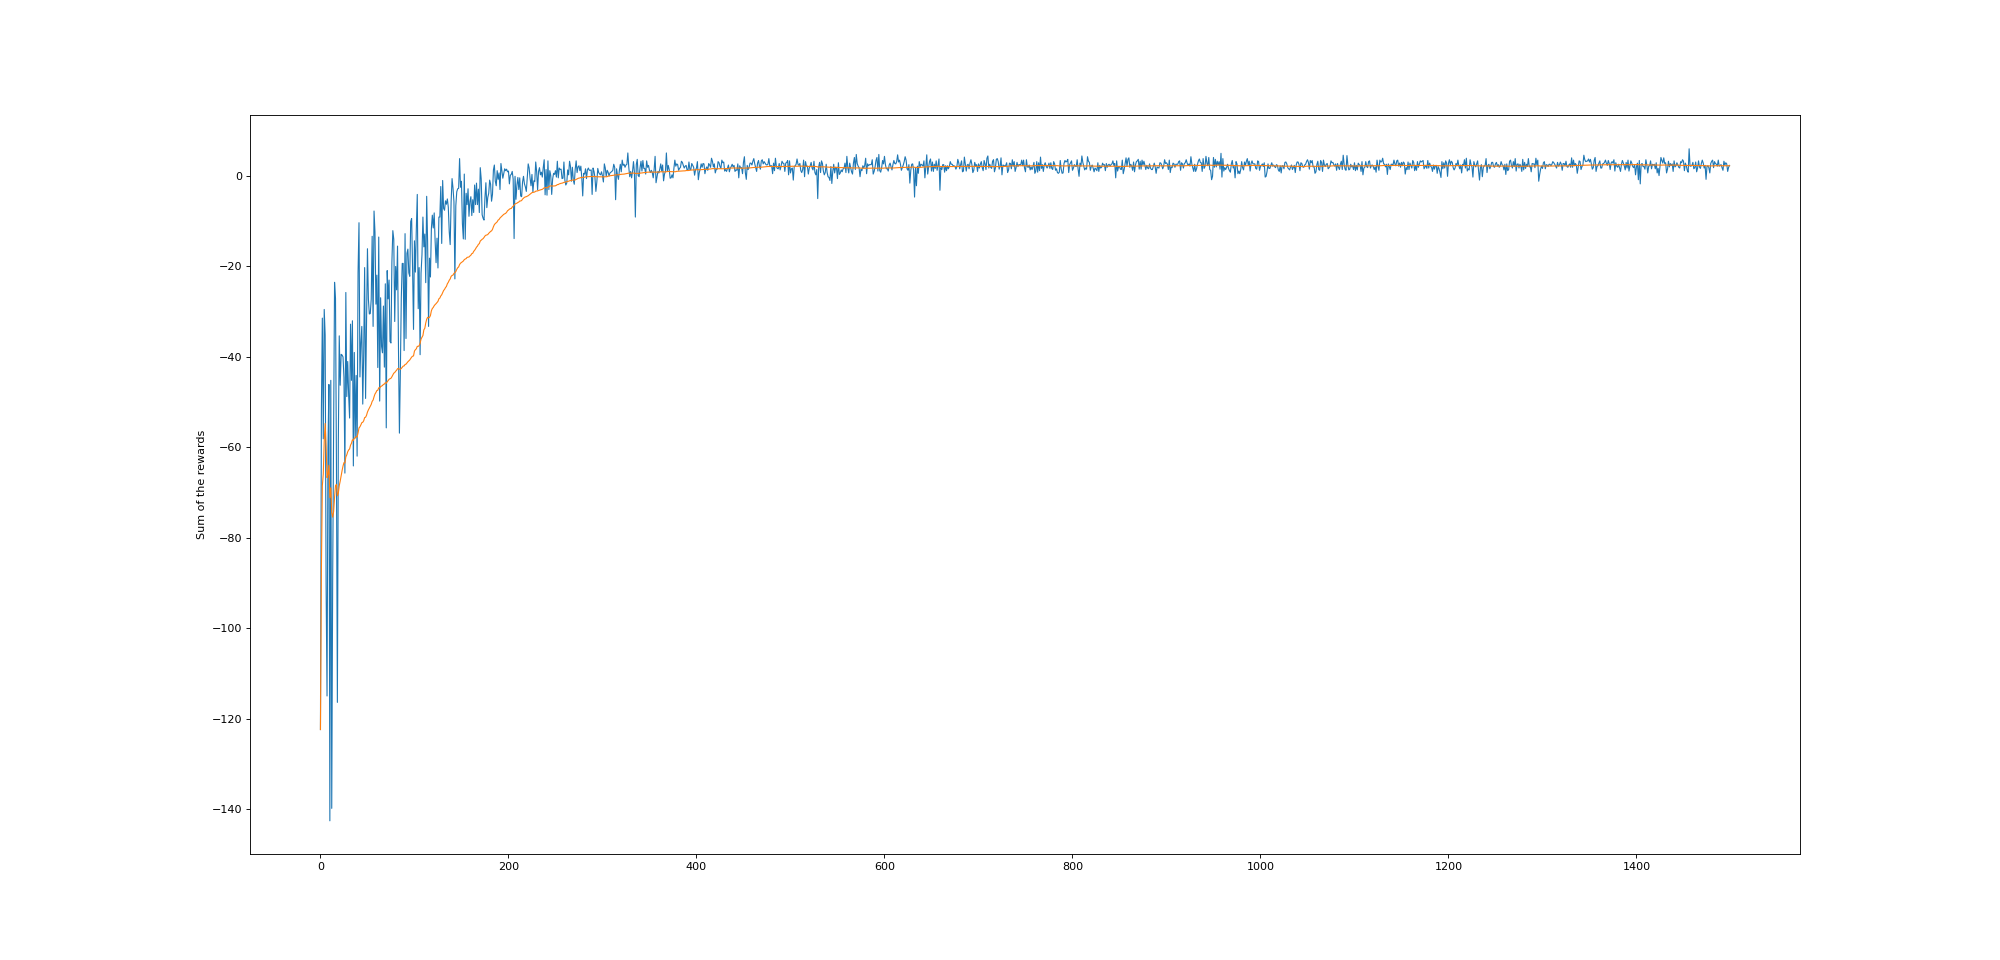
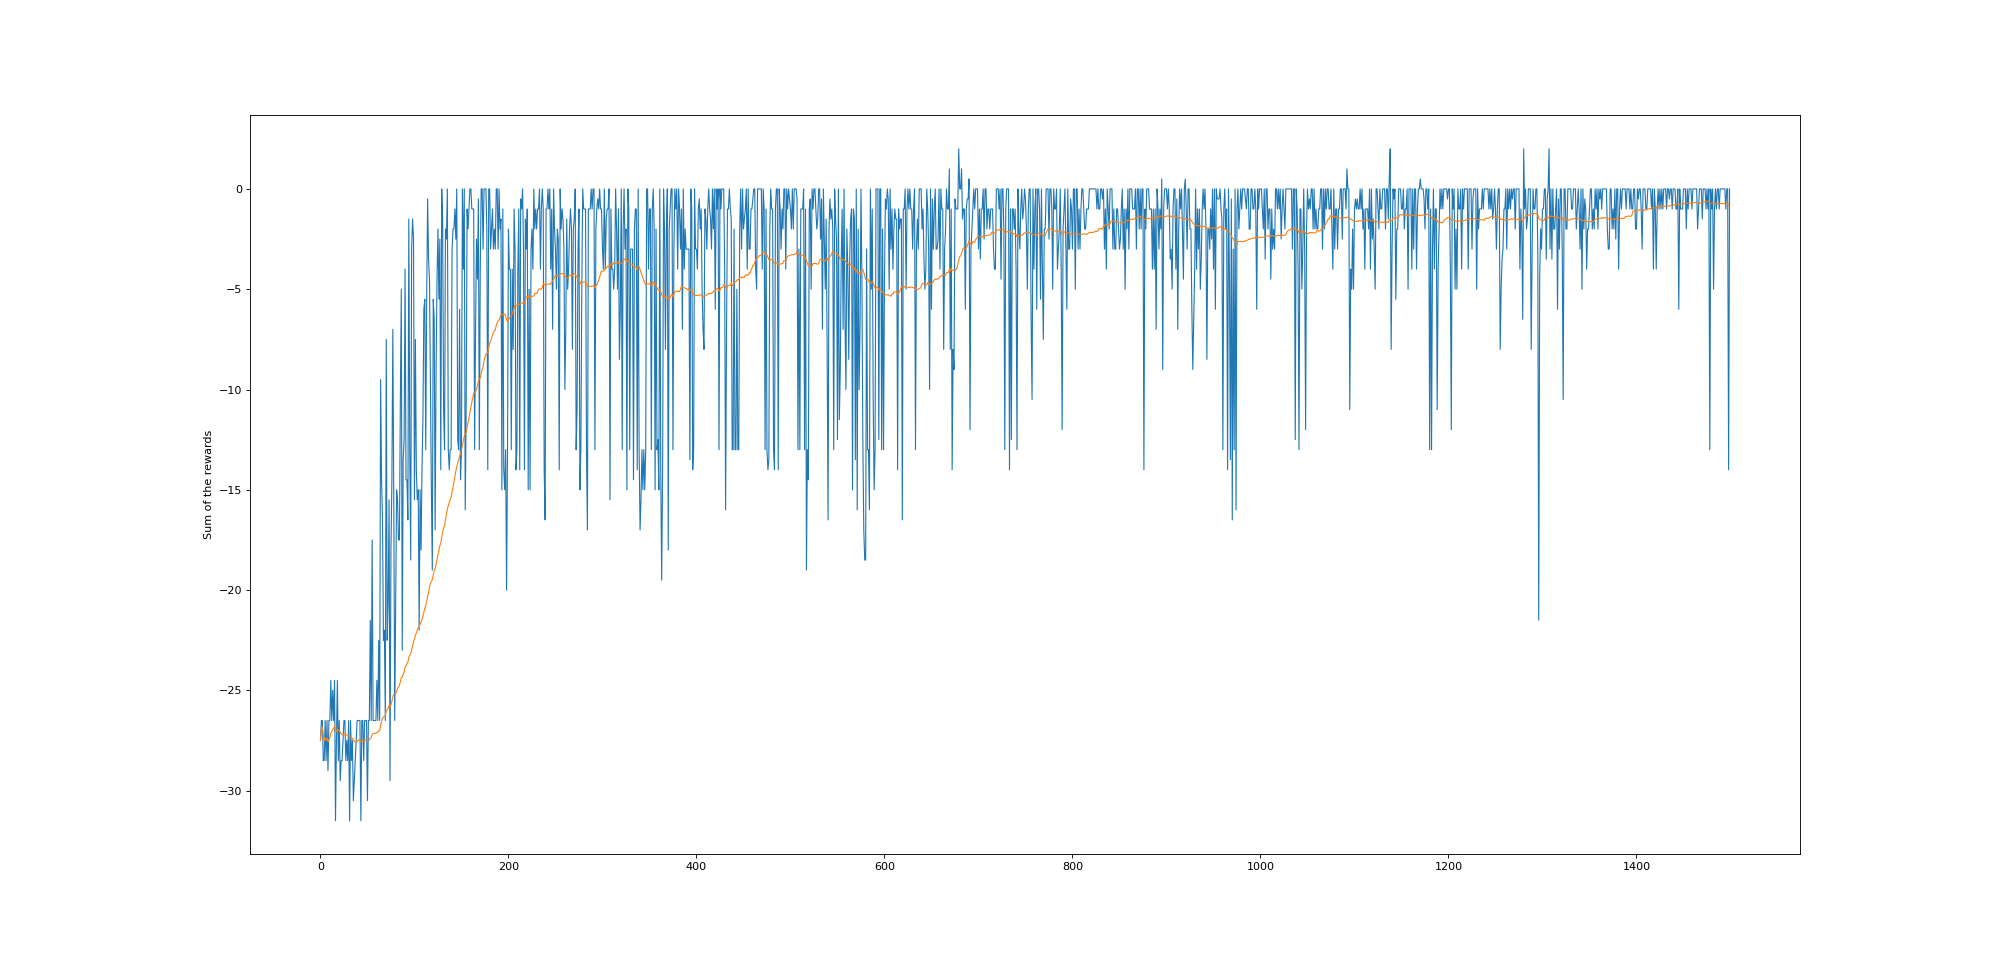
testing bugged (?)

Changed region(s): [[0.155, 0.1562, 0.868, 0.8438], [0.093, 0.4375, 0.124, 0.5625]]

diff --git a/python/MesaModel.py b/python/MesaModel.py
@@ -115,14 +115,14 @@ class MesaAgent(Agent):
     def construct_and_save_observation(self):
         observation = [self.pos[0]+1, self.pos[1]+1, self.destination[0]+1, self.destination[1]+1]
 
-        for n in self.model.grid.get_neighbors(self.pos, True, radius=5):
+        '''for n in self.model.grid.get_neighbors(self.pos, True, radius=5):
             if(n != self):
                 neighbor_observation = [n.pos[0]+1, n.pos[1]+1, n.destination[0]+1, n.destination[1]+1]
                 if(len(observation)<self.model.decision_maker.observation_space.shape[0]):
                     observation += neighbor_observation
 
         while(len(observation)<self.model.decision_maker.observation_space.shape[0]):
-            observation.append(0)
+            observation.append(0)'''
         #print(observation)
         self.ob_prec = self.ob
         self.ob = observation #[self.get_padded_path_taken(), observation]
@@ -157,7 +157,7 @@ class MesaAgent(Agent):
         if(self.n_step >= self.next_movement_step):
             if(self.ob == None):
                 self.construct_and_save_observation()
-            action_probs = self.model.decision_maker.actor(torch.tensor(self.ob)).detach().numpy()
+            action_probs = self.model.decision_maker.old_actor(torch.tensor(self.ob)).detach().numpy()
             self.action = np.random.choice(np.arange(self.model.decision_maker.action_space.n), p=action_probs)
             self.value = self.model.decision_maker.critic(torch.tensor(self.ob)).detach().numpy()
             self.change_next_position_with_action()
@@ -219,13 +219,21 @@ class MesaModel(Model):
                     a.destination = ((self.grid.width-1)//2+1, self.grid.height-1)
 
             else:
+                if(i == 0):
+                    self.grid.place_agent(a, (0, 1))
+                    a.destination = ((self.grid.width-1)//2, self.grid.height-1)
+                else:
+                    self.grid.place_agent(a, (self.grid.width-1, 0))
+                    a.destination = ((self.grid.width-1)//2+1, self.grid.height-1)
+                
+                '''
                 pos=(randint(0, self.grid.width-1), randint(0, self.grid.height-1))
                 self.grid.place_agent(a, pos)
                 dest=pos
                 while(dest==pos):
                     dest=(randint(0, self.grid.width-1), randint(0, self.grid.height-1))
                 
-                a.destination=dest
+                a.destination=dest'''
 
             self.list_agents.append(a)
 
@@ -242,6 +250,8 @@ class MesaModel(Model):
         self.check_for_groups()
         for a in self.list_agents:
             a.construct_and_save_observation()
+
+        
 
 
 

diff --git a/python/hyperParams.py b/python/hyperParams.py
@@ -40,7 +40,7 @@ class PPOHyperParams :
         self.K = 3
 
         self.HIDDEN_SIZE = 32
-        self.MAX_STEPS = 1000
+        self.MAX_STEPS = 100
 
         self.RANGE_STEP_TO_WAIT = [3, 9]
         self.MIN_NUM_AGENT_IN_GROUP = 2
